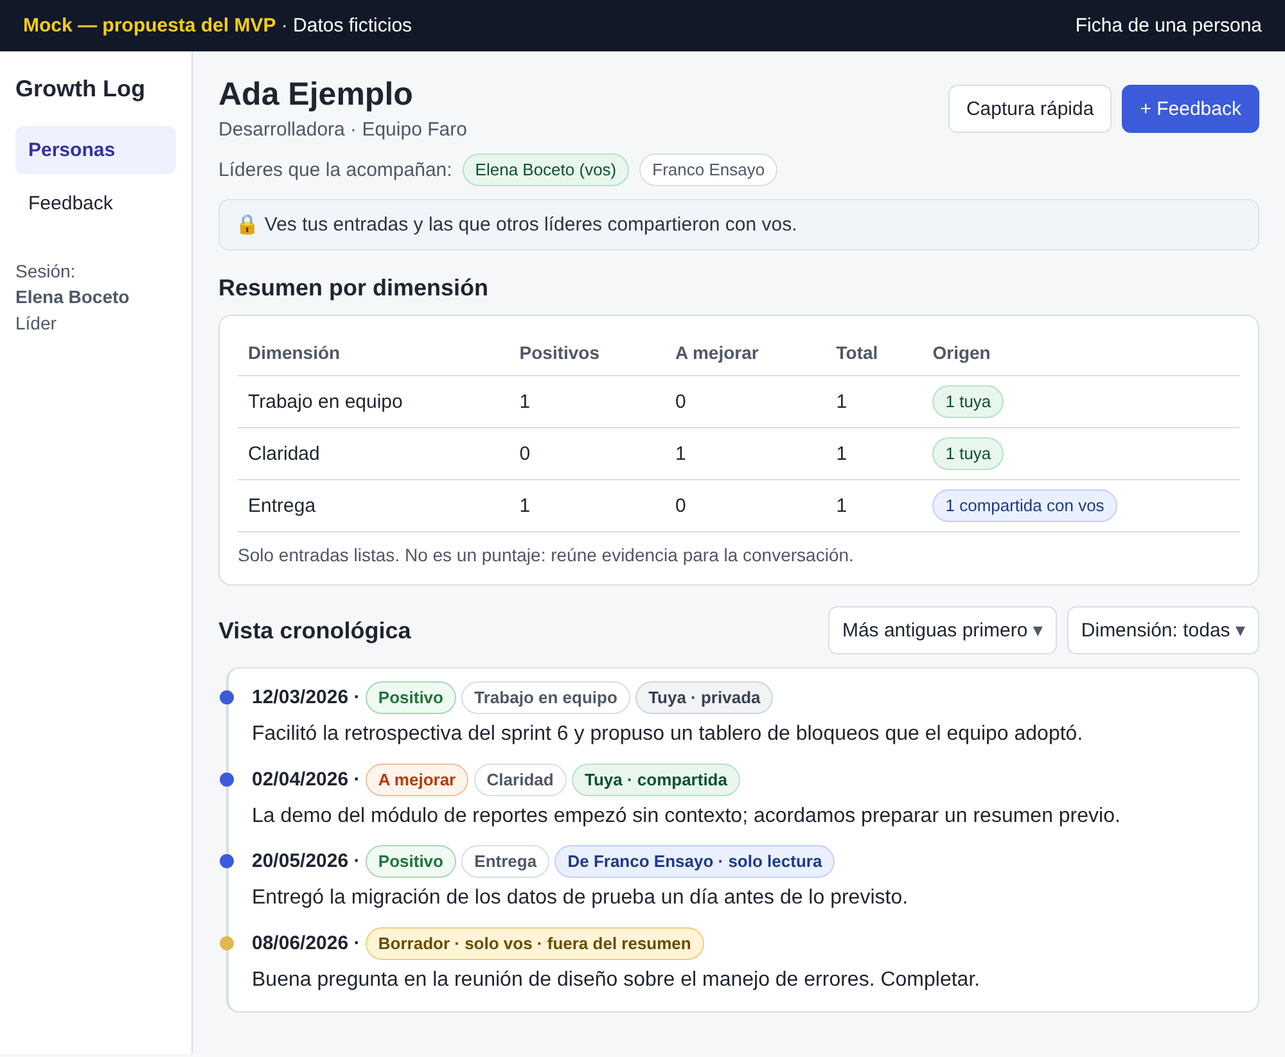
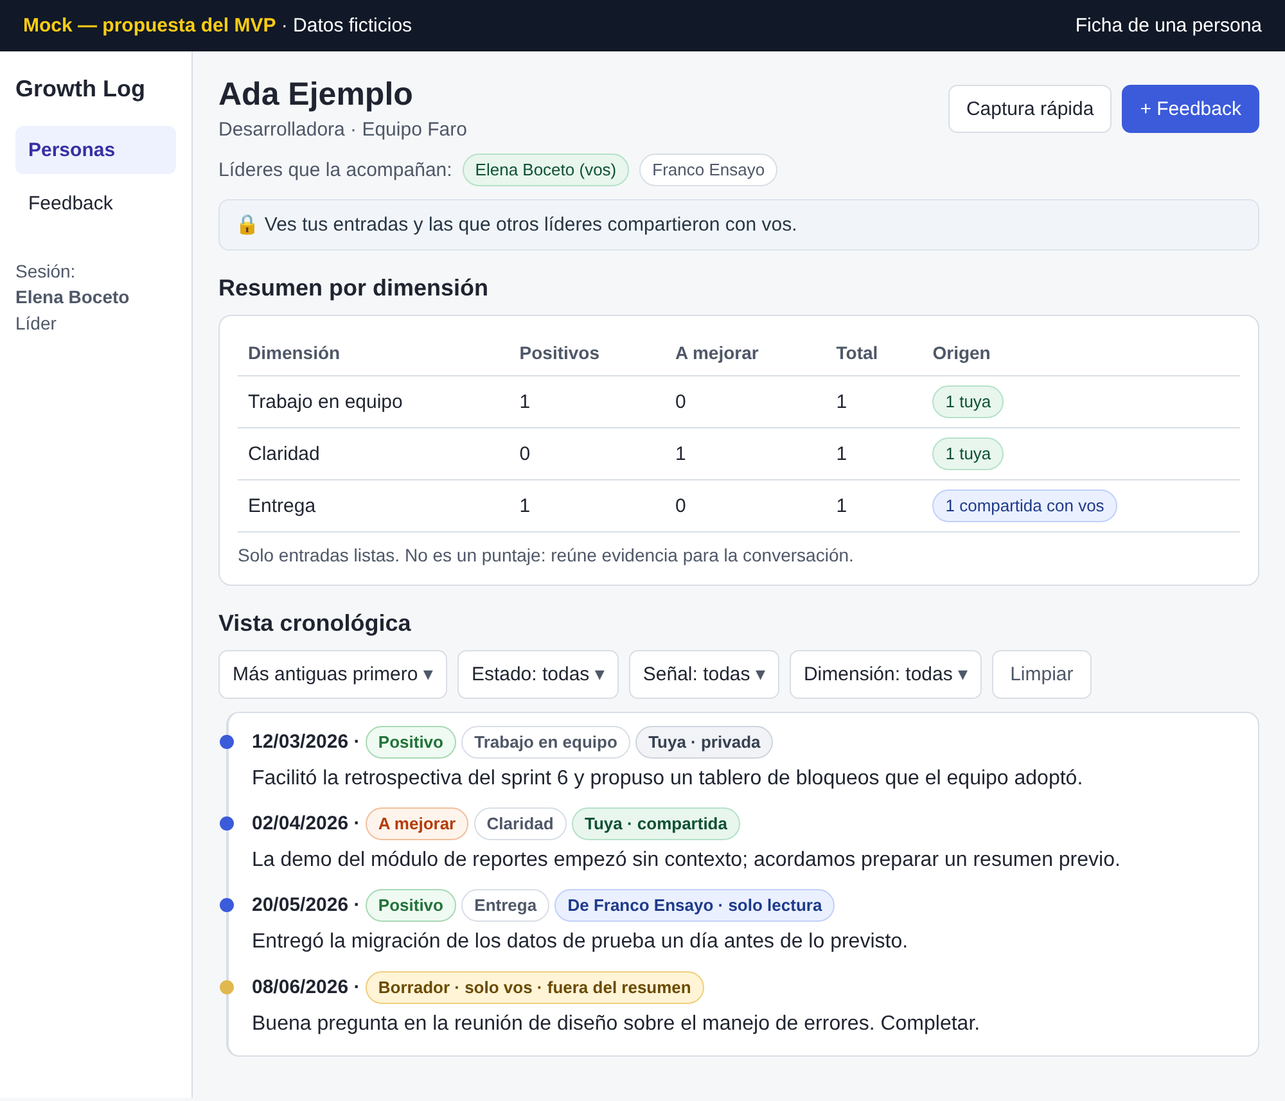
Entrega 1: precisiones técnicas, decisiones y registro de IA
- Arquitectura: separar el frontend agrega un contrato de API, sin
  duplicar permisos; un monolito admite varias instancias y una es la
  propuesta inicial. Diagrama sin nodos desconectados; integraciones
  opcionales descritas en texto.
- Despliegue: el proceso de CI y entrega y la infraestructura de
  ejecución en dos diagramas separados.
- Modelo de datos: etiquetas legibles de izquierda a derecha.
- Tickets: MVP-FE-1 depende también de MVP-BE-1; la reversión de
  migraciones se comprueba en una base descartable.
- Historias y mocks: terminología unificada («Captura rápida»,
  «Feedback»), filtros del mock 1 alineados con 4.6 y 4.7, y filtros de
  origen y persona del feed marcados como propuestas por confirmar.
- Plan: H1 como base antes de H2 y H3.
- Decisiones: alternativas mínimas recomendadas para D1, D2 y D5, sin
  darlas por aceptadas.
- prompts.md: contexto avanzado y herramientas usados realmente.

diff --git a/README.md b/README.md
@@ -153,8 +153,9 @@ de la persona acompañada (D4) y los enlaces de evidencia externos.
 ### 1.3. Diseño y experiencia de usuario
 
 **Propuesto:** una navegación con «Personas» y «Feedback». La ficha de cada
-persona concentra el resumen por dimensión, el acceso a la captura rápida y
-la lista de entradas visibles. Cada entrada muestra si es propia o
+persona concentra el resumen por dimensión, el acceso a la «Captura rápida»
+y la lista de entradas visibles. La sección «Feedback» es el feed con las
+entradas que el líder puede ver. Cada entrada muestra si es propia o
 compartida. Los textos dicen «Marcar como lista» y «Compartir», nunca
 «Publicar», para no confundir marcar como lista con compartir.
 
@@ -173,7 +174,8 @@ criterios y las decisiones pendientes está en el
 ![Mock 1: ficha de una persona con resumen y vista cronológica](anexos/mocks/mock-1-ficha-persona.png)
 
 Resumen por dimensión que distingue entradas propias y compartidas, y vista
-cronológica por fecha del hecho (4.13). La lista de líderes muestra una
+cronológica por fecha del hecho (4.13), con filtros por estado, señal y
+dimensión (4.6). La lista de líderes muestra una
 alternativa de asignación, pendiente de D1. El resumen no es un puntaje.
 
 **2. Captura rápida de feedback (H3)**
@@ -198,9 +200,11 @@ dependen de D2; la pantalla muestra una alternativa.
 ![Mock 4: feed con filtros](anexos/mocks/mock-4-feed.png)
 
 Solo entradas propias y listas compartidas con el líder (PP-6, propuesta),
-con filtros por estado, señal, dimensión y origen, y paginación. Las
-etiquetas de origen distinguen «Tuya · privada», «Tuya · compartida» y
-«Compartida con vos»; la leyenda debajo de la tabla las explica.
+con filtros por estado, señal y dimensión (5.2) y paginación. Las etiquetas
+de origen distinguen «Tuya · privada», «Tuya · compartida» y «Compartida con
+vos»; la leyenda debajo de la tabla las explica. Los filtros de **origen y
+persona** que muestra el mock son **propuestas por confirmar**: no forman
+parte de los criterios actuales.
 
 ### 1.4. Instrucciones de instalación
 
@@ -223,19 +227,14 @@ flowchart TB
   subgraph NAV["Navegador"]
     UI["Interfaz HTML<br/>vistas del servidor + Turbo + Stimulus"]
   end
-  subgraph APP["Monolito Rails (PROPUESTO)"]
+  subgraph APP["Rails propuesto"]
     RT["Rutas y controladores<br/>Personas · Entradas · Compartir · Resumen"]
     AUTH["Autenticación<br/>cuentas individuales"]
     POL["Autorización en el servidor<br/>reglas PP-1 a PP-7, denegar por defecto"]
     SCOPE["Consultas con alcance<br/>solo lo visible para el líder"]
     DOM["Dominio: personas y feedback<br/>estados, validaciones, acompañamientos,<br/>comparticiones"]
-    OUT["Salida a servicios externos<br/>punto de integración por decidir"]
   end
   DB[("PostgreSQL<br/>usuarios, personas, acompañamientos,<br/>entradas, comparticiones")]
-  subgraph EXT["Opcionales (ADR-8)"]
-    MAIL["Correo transaccional<br/>recuperar contraseña"]
-    ERR["Seguimiento de errores<br/>sin contenido de feedback"]
-  end
   UI -- "HTTPS (requisito)" --> RT
   RT --> AUTH
   AUTH --> POL
@@ -244,15 +243,12 @@ flowchart TB
   SCOPE --> DB
   DOM --> DB
   RT -- "HTML y Turbo Streams" --> UI
-  OUT -. "correo, si se incluye" .-> MAIL
-  OUT -. "errores sin feedback, si se incluye" .-> ERR
-  style OUT stroke-dasharray: 5 5
-  style EXT stroke-dasharray: 5 5
 ```
 
-Lo punteado es opcional y está por decidir: el correo y el seguimiento de
-errores son servicios externos propuestos (ADR-8), y qué componente se
-conecta con ellos todavía no está definido.
+**Integraciones opcionales, todavía sin dibujar:** un servicio de correo
+transaccional para recuperar contraseñas y uno de seguimiento de errores, sin
+contenido de feedback (ADR-8). Se agregarán al diagrama cuando se decida si
+se incluyen y qué componente se conecta con ellos.
 
 **Por qué un monolito encaja (propuesto).**
 
@@ -260,12 +256,15 @@ conecta con ellos todavía no está definido.
   servicio es más simple de construir, probar y desplegar.
 - La regla central, quién puede ver qué entrada, vive en un único lugar y se
   aplica igual a vistas, feed y resumen.
-- Las vistas renderizadas en el servidor no exponen datos a un cliente que
-  luego haya que filtrar.
+- Con vistas renderizadas en el servidor no hace falta mantener un contrato
+  de API ni coordinar dos aplicaciones.
 
 **Qué se sacrifica:** no hay una API para otros clientes (por ejemplo, una
-app móvil para la captura rápida), y la escala queda limitada a un servicio.
-Ninguna de las dos cosas hace falta para el MVP.
+app móvil para la captura rápida), algo que el MVP no necesita.
+
+**Escala:** un monolito puede ejecutarse en varias instancias. La propuesta
+inicial es **una sola instancia**, por simplicidad y por el volumen esperado;
+no es una limitación del patrón.
 
 **Responsabilidades:**
 
@@ -294,7 +293,7 @@ ellas, con una única versión de Ruby declarada en todo el repositorio.
 | Elección | Por qué encaja | Alternativa razonable | Qué falta decidir o comprobar |
 |---|---|---|---|
 | **Ruby y Rails** | monolito con convenciones maduras para formularios, sesiones, validaciones y tests; conocido por Pablo | Django; Laravel; Node con un framework full-stack | la versión con soporte vigente y una única versión de Ruby declarada en todo el repositorio |
-| **ERB y Hotwire** (Turbo y Stimulus) | HTML del servidor, con filtros y formularios sin recargar y poco JavaScript | React o Vue con una API JSON, que obliga a duplicar la autorización en una API | si la captura rápida en el teléfono es suficiente como web adaptable (HV-1) |
+| **ERB y Hotwire** (Turbo y Stimulus) | HTML del servidor, con filtros y formularios sin recargar y poco JavaScript | React o Vue con una API JSON: los permisos se siguen aplicando en el servidor, pero separar el frontend agrega un contrato de API y coordinación entre dos aplicaciones | si la captura rápida en el teléfono es suficiente como web adaptable (HV-1) |
 | **PostgreSQL** | restricciones de integridad, índices parciales para comparticiones activas y Row Level Security disponible si se decide | SQLite, más simple pero con menos opciones de concurrencia y de backup gestionado | si se usa RLS (ADR-5); proveedor gestionado con backups (ADR-7) |
 | **Autenticación: Devise** | completa: sesión, recordarme, recuperación, bloqueo por intentos | el generador de autenticación que trae Rails, más simple y con menos funciones; inicio de sesión con un proveedor externo (OAuth) | ADR-2: qué funciones hacen falta (bloqueo por intentos, recuperación) y quién crea las cuentas (D1) |
 | **Autorización: políticas en el servidor** | reglas explícitas y testeables por acción | una biblioteca de políticas (por ejemplo, Pundit o Action Policy) u objetos de política propios | ADR-3: la biblioteca y si un acceso no autorizado responde 404 o 403 |
@@ -316,13 +315,23 @@ el proyecto.
 
 **Propuesto.** Nada de esto existe todavía.
 
+**Proceso de CI y entrega:**
+
 ```mermaid
 flowchart LR
-  BR["Rama de trabajo"] -- "pull request" --> CI["CI: estilo, seguridad,<br/>tests unitarios, de integración y E2E"]
+  BR["Rama de trabajo"] -- "pull request" --> CI["CI<br/>estilo, seguridad y tests"]
   CI -- "en verde" --> MAIN["main"]
-  MAIN -- "solo si el CI pasó" --> DEP["Despliegue<br/>destino por decidir (ADR-7)"]
-  DEP --> RUN["Aplicación Rails"]
-  RUN --> PG[("PostgreSQL gestionado<br/>backups: requisito")]
+  MAIN -- "solo si el CI pasó" --> DEP["Despliegue"]
+```
+
+**Infraestructura donde corre el producto:**
+
+```mermaid
+flowchart LR
+  U["Navegador"] -- "HTTPS" --> APP
+  subgraph HOST["Hosting por decidir (ADR-7)"]
+    APP["Aplicación Rails<br/>una instancia inicial"] --> PG[("PostgreSQL gestionado<br/>backups: requisito")]
+  end
 ```
 
 Requisitos de operación: HTTPS forzado en todos los entornos públicos,
@@ -371,12 +380,12 @@ por destinatario (`ENTRY_SHARE`, sujeta a D2).
 
 ```mermaid
 erDiagram
-  ASSIGNMENT }o--|| PERSON : "es acompañada"
-  ASSIGNMENT }o--|| USER : "acompaña"
+  ASSIGNMENT }o--|| PERSON : "vincula a la persona"
+  ASSIGNMENT }o--|| USER : "vincula al líder"
   PERSON ||--o{ FEEDBACK_ENTRY : "recibe"
-  USER ||--o{ FEEDBACK_ENTRY : "es autor"
-  FEEDBACK_ENTRY ||--o{ ENTRY_SHARE : "se comparte (alternativa, D2)"
-  USER ||--o{ ENTRY_SHARE : "puede leer (alternativa, D2)"
+  USER ||--o{ FEEDBACK_ENTRY : "escribe"
+  FEEDBACK_ENTRY ||--o{ ENTRY_SHARE : "se comparte con (alternativa, D2)"
+  USER ||--o{ ENTRY_SHARE : "es destinatario de (alternativa, D2)"
   USER {
     identifier id PK
     string email UK "not null"
@@ -606,7 +615,7 @@ detectar patrones y coordinarme con otros líderes.
 |---|---|---|---|---|---|
 | H1 | personas, autorización, consultas con alcance | `PERSON`, `ASSIGNMENT` | PP-2; D1 | un líder no asignado no ve ni abre la persona | MVP-DB-1 |
 | H2 | entradas, autorización, dominio | `FEEDBACK_ENTRY` | PP-2 a PP-4 | validaciones; crear sobre una persona no acompañada es rechazado | MVP-DB-1, MVP-BE-1 |
-| H3 | interfaz, entradas, dominio | `FEEDBACK_ENTRY.status` | PP-3; 3.9 | recorrido E2E de captura rápida a lista; lista exige dimensión | MVP-FE-1 |
+| H3 | interfaz, entradas, dominio | `FEEDBACK_ENTRY.status` | PP-3; 3.9 | recorrido E2E de captura rápida a lista; lista exige dimensión | MVP-FE-1, MVP-BE-1 |
 | H4 | resumen, consultas con alcance | `FEEDBACK_ENTRY` (`occurred_on`), compartición, `ASSIGNMENT` | PP-5, PP-6; 4.11 a 4.13 | dos líderes ven resúmenes distintos; la vista cronológica solo incluye entradas visibles | MVP-BE-1 |
 | H5 | feed, compartir, autorización | `ENTRY_SHARE` | PP-4 a PP-6; D2, D3 | compartir un borrador es rechazado; el destinatario lee y no edita | MVP-BE-1, MVP-DB-1 |
 
@@ -642,7 +651,9 @@ dependen de decisiones todavía abiertas.
     fuera de `draft` y `ready`;
   - no se pueden duplicar un acompañamiento activo ni una compartición
     activa;
-  - las migraciones se revierten en desarrollo sin pérdida;
+  - la reversión de cada migración se comprueba en una base descartable;
+    revertir una migración que elimina tablas o columnas borra sus datos, así
+    que nunca se revierte sobre datos reales sin un backup;
   - los tests de modelo pasan en el CI.
 - **Fuera de alcance:** hacer cumplir las reglas en controladores y vistas
   (MVP-BE-1).
@@ -678,7 +689,9 @@ dependen de decisiones todavía abiertas.
 ### MVP-FE-1. Captura rápida accesible desde la ficha (frontend)
 
 - **Historia:** H3. **Hipótesis relacionada:** HV-1.
-- **Depende de:** MVP-DB-1.
+- **Depende de:** MVP-DB-1, para guardar el borrador, y MVP-BE-1, para que
+  sea privado de su autor. La interfaz puede maquetarse antes, pero la
+  integración funcional requiere los dos.
 - **Contexto:** la captura rápida solo sirve si está a la vista desde la
   ficha; sin un acceso visible, no se usa.
 - **Pasos:**
@@ -725,7 +738,7 @@ matriz completa está en el
 | 4 | Optimización de la base | índices para las consultas de visibilidad; paginación | medir con datos de prueba |
 | 5 | Disponibilidad | chequeo de salud | según el hosting (ADR-7) |
 | 6 | CI/CD | CI en cada PR; despliegue solo en verde | destino de despliegue (ADR-7) |
-| 7 | Balanceo y escalado | una instancia alcanza | — |
+| 7 | Balanceo y escalado | una instancia como propuesta inicial; el monolito admite varias | cuándo hacen falta más instancias |
 | 8 | Errores y monitoreo | seguimiento de errores sin contenido de feedback | herramienta (ADR-8) |
 | 9 | Seguridad y RLS | autorización en el servidor, denegar por defecto | RLS como segunda defensa (ADR-5) |
 | 10 | Autenticación y permisos | cuentas individuales y política PP | autenticación (ADR-2); quién crea las cuentas (D1) |
@@ -746,6 +759,15 @@ Ningún requisito está implementado todavía.
 | D3 | **Escalar:** si hace falta algo más que compartir, por ejemplo escalar un caso. | H5 |
 | D4 | **Acceso de la persona acompañada** a su propio feedback. | ninguno del MVP |
 | D5 | **Salida de un autor:** cómo se conservan o transfieren sus entradas (PP-7). | MVP-DB-1 |
+
+**Alternativas mínimas para D1, D2 y D5.** Son **recomendaciones para que
+Pablo decida**, no decisiones tomadas.
+
+| # | Pregunta para Pablo | Alternativa mínima recomendada | Consecuencias en historias, permisos y modelo |
+|---|---|---|---|
+| D1 | ¿Quién crea las cuentas, asigna líderes a personas y edita los datos de una persona? | Un administrador (puede ser Pablo) crea cuentas, personas y asignaciones. Los líderes no se asignan solos. | **Historias:** H1 separa administrar (alta y asignación) de usar (ver las personas asignadas); resuelve 1.6 y 1.12. **Permisos:** un rol de administrador además de líder. **Modelo:** un rol en `USER` y `ASSIGNMENT` con `ended_at`. |
+| D2 | ¿Con quién se puede compartir una entrada y cómo se revoca? | Solo con líderes que acompañan a la misma persona, de a uno. Revocar marca la compartición con `revoked_at` y quita la lectura de inmediato. | **Historias:** permite especificar 5.6 y 5.7; el mock 3 ya muestra esta alternativa. **Permisos:** se lee si se es autor o hay una compartición activa con un líder asignado; si termina la asignación, se pierde la lectura. **Modelo:** `ENTRY_SHARE` por destinatario, con `revoked_at`. |
+| D5 | ¿Qué pasa con las entradas de un líder que deja el equipo? | Desactivar su cuenta en lugar de borrarla. Sus entradas se conservan y quienes ya las tenían compartidas las siguen leyendo; sin transferencia en el MVP. | **Historias:** no agrega historias; define PP-7. **Permisos:** un usuario desactivado no inicia sesión, y sus entradas no compartidas quedan sin lector (consecuencia a aceptar). **Modelo:** `USER.deactivated_at`; no se borran usuarios con entradas. |
 
 ### 9.2. Decisiones de arquitectura y de producto
 
@@ -790,7 +812,7 @@ fase tiene una verificación humana o automática.
 | 1. Decisiones | resolver D1, D2, D5 y los ADR abiertos | comparar opciones con sus consecuencias | Pablo decide y se registra en un ADR |
 | 2. Especificación ejecutable | criterios de aceptación → tests que fallan | proponer tests desde los criterios | Pablo revisa que cada test refleje su criterio |
 | 3. Modelo y autorización | MVP-DB-1 y MVP-BE-1 primero | implementar hasta pasar los tests | CI en verde; test de cobertura de la política |
-| 4. Historias | H2 y H3, luego H4, H5 y H1 | implementar e iterar | tests de cada criterio y el E2E |
+| 4. Historias | H1 (ficha y asignaciones válidas) como base; luego H2 y H3; después H4 y H5 | implementar e iterar | tests de cada criterio y el E2E |
 | 5. Operación | CI como condición, despliegue y backups | configurar el pipeline | una restauración de backup probada |
 | 6. Validación | pruebas de uso y piloto | preparar guiones y resumir resultados | HV-1 a HV-4 contrastadas con usuarios |
 

diff --git a/anexos/anexo-a-historias.md b/anexos/anexo-a-historias.md
@@ -48,7 +48,7 @@ cuando deja el equipo.
 |---|---|
 | 1.1 | **Dado** que inicié sesión, **cuando** entro en Personas, **entonces** veo las personas activas ordenadas por nombre, con su rol y su equipo. |
 | 1.2 | **Entonces** solo veo las personas que estoy autorizado a acompañar. *(PP-2)* |
-| 1.3 | **Entonces** el conteo de feedbacks de cada persona incluye solo las entradas que puedo ver. *(PP-6)* |
+| 1.3 | **Entonces** el conteo de entradas de cada persona incluye solo las que puedo ver. *(PP-6)* |
 | 1.4 | **Dado** que no hay personas, **cuando** entro en Personas, **entonces** veo un mensaje y un enlace para crear la primera. |
 | 1.5 | **Cuando** creo una persona sin nombre, **entonces** no se guarda y veo el error. |
 | 1.6 | **Cuando** edito el nombre, el rol o el equipo, **entonces** se guardan los cambios. *(D1)* |
@@ -101,9 +101,9 @@ como lista. Sigue siendo privado hasta que lo comparta (PP-3, PP-4).
 
 | # | Criterio de aceptación (propuesto) |
 |---|---|
-| 3.1 | **Cuando** estoy en la ficha de una persona, **entonces** tengo un acceso visible a «Nota rápida». |
-| 3.2 | **Cuando** guardo una nota rápida, **entonces** se guarda como borrador privado de mi autoría, con la fecha de hoy, pidiendo solo el texto. *(PP-3)* |
-| 3.3 | **Dado** un borrador, **entonces** no cuenta en el resumen de la persona ni en su conteo de feedbacks. |
+| 3.1 | **Cuando** estoy en la ficha de una persona, **entonces** tengo un acceso visible a «Captura rápida». |
+| 3.2 | **Cuando** guardo una captura rápida, **entonces** se guarda como borrador privado de mi autoría, con la fecha de hoy, pidiendo solo el texto. *(PP-3)* |
+| 3.3 | **Dado** un borrador, **entonces** no cuenta en el resumen de la persona ni en su conteo de entradas. |
 | 3.4 | **Cuando** edito mi borrador, **entonces** puedo completar la señal, la dimensión y lo demás. |
 | 3.5 | **Cuando** marco como lista un borrador incompleto, **entonces** veo qué falta y el borrador sigue como estaba. |
 | 3.6 | **Cuando** marco como lista un borrador completo, **entonces** pasa a lista **y sigue privada**. *(PP-4)* |
@@ -157,7 +157,7 @@ borradores, tampoco los propios.
 y compartir el mío cuando lo decida, para detectar patrones y coordinarme con
 otros líderes.
 
-**Recorrido.** Entro en «Feedbacks», veo mis entradas y las compartidas
+**Recorrido.** Entro en «Feedback», veo mis entradas y las compartidas
 conmigo, filtro, paso a la persona o al detalle, y comparto una entrada lista.
 
 **Qué entradas entran en el feed (política propuesta, PP-6):** mis entradas
@@ -165,7 +165,7 @@ conmigo, filtro, paso a la persona o al detalle, y comparto una entrada lista.
 
 | # | Criterio de aceptación (propuesto) |
 |---|---|
-| 5.1 | **Cuando** entro en Feedbacks, **entonces** veo las entradas, primero las más recientes, solo las listas por defecto. |
+| 5.1 | **Cuando** entro en «Feedback», **entonces** veo las entradas, primero las más recientes, solo las listas por defecto. |
 | 5.2 | **Cuando** filtro por estado, señal o dimensión, **entonces** la lista se actualiza, y puedo limpiar los filtros. |
 | 5.3 | **Cuando** elijo una entrada, **entonces** puedo ir a la persona o al detalle. |
 | 5.4 | **Entonces** el feed muestra solo mis entradas y las listas compartidas conmigo. *(PP-6)* |

diff --git a/prompts.md b/prompts.md
@@ -19,6 +19,22 @@ evidencia:
 | Preparación de los pedidos | con ayuda de **ChatGPT** | solo lo declarado por Pablo el 27/10/2026. No se conservan esas conversaciones, no consta el modelo y no se puede distinguir qué parte de cada texto aportó ChatGPT |
 | Ejecución | **Claude Code (CLI)** con **Claude Opus 5.5** (`claude-opus-5-5`) | comprobado en la transcripción local de la sesión del 27/10/2026 (no se comparte): texto literal, herramienta y modelo de cada flujo |
 
+## Contexto avanzado y herramientas utilizadas
+
+Lo que se usó realmente en la preparación de esta entrega, según la
+transcripción de la sesión y los archivos de configuración:
+
+| Elemento | ¿Se usó? | Evidencia |
+|---|---|---|
+| Skills | **no** | ninguna invocación en la transcripción |
+| Subagentes | **sí, uno**: `web-fetch`, para leer la publicación de LinkedIn que inspira la matriz de confiabilidad (27/10/2026) | transcripción |
+| `CLAUDE.md` del proyecto o del usuario | **no** | no existe en las carpetas de trabajo ni en la configuración del usuario |
+| Rules | **no** | no hay archivos de reglas |
+| Memoria persistente | **no** | el directorio de memoria del proyecto está vacío |
+| Servidores MCP | **no** | ninguna llamada a herramientas MCP |
+| Instrucciones de la cuenta | **sí** | el entorno tenía instrucciones generales configuradas en la cuenta, no específicas de este proyecto, sobre cómo organizar y delegar el trabajo. No se publican. |
+| Herramientas del asistente | **sí** | terminal, lectura y edición de archivos y una pregunta al usuario. Con ellas: scripts de Python para generar y verificar la documentación, Chrome sin interfaz para renderizar los diagramas y los mocks, y `gh` en modo lectura para obtener la plantilla del curso. |
+
 ## Qué se publica
 
 Este registro publica **tres flujos** de la preparación de la entrega. Otros

diff --git a/anexos/anexo-e-mocks.md b/anexos/anexo-e-mocks.md
@@ -28,6 +28,7 @@ PP-7) y a las decisiones (D1 a D5) están en este anexo, no en la interfaz.
 | Resumen por dimensión con entradas listas visibles, distinguiendo las propias de las compartidas | 4.1–4.3; PP-6 | — |
 | Las entradas privadas de otro líder sobre la misma persona no se muestran ni se cuentan; dos líderes pueden ver resúmenes distintos | 4.11, 4.12 | — |
 | Vista cronológica por fecha del hecho, solo con entradas visibles | 4.13 | — |
+| Filtros por estado, señal y dimensión, con «Limpiar» | 4.6, 4.7 | — |
 | Un borrador propio aparece en la línea de tiempo, pero no en el resumen | 3.3; PP-3 | — |
 | El resumen aclara que no es un puntaje; la calibración es un uso posible y la aplicación no calcula la evaluación | 4.5 | — |
 
@@ -67,7 +68,8 @@ Registrar cada compartición por destinatario es una alternativa sujeta a D2
 | Qué muestra | Criterios y reglas | Decisiones pendientes |
 |---|---|---|
 | Más recientes primero; por defecto, solo listas | 5.1 | — |
-| Filtros por estado, señal y dimensión, con «Limpiar filtros»; el filtro de origen distingue lo propio de lo compartido | 5.2, 4.3 | — |
+| Filtros por estado, señal y dimensión, con «Limpiar» | 5.2 | — |
+| Filtros por **origen** y **persona** | — | **Propuesta por confirmar**: no forman parte de los criterios; si se aceptan, se suman a 5.2 |
 | Solo entradas propias y listas compartidas con el líder; los borradores ajenos nunca aparecen | 5.4, 5.5; PP-3, PP-6 | — |
 | Etiquetas de origen con leyenda: «Tuya · privada» (solo la ve su autora), «Tuya · compartida» (la autora la compartió) y «Compartida con vos» (solo lectura) | 4.3, 4.10 | — |
 | Cada fila lleva a la persona o al detalle | 5.3 | — |

diff --git a/anexos/anexo-b-matriz-confiabilidad.md b/anexos/anexo-b-matriz-confiabilidad.md
@@ -24,7 +24,7 @@ que falta decidir o validar para cumplirlos.
 | 4 | Optimización de la base | Índices para las consultas de visibilidad (autor, persona, destinatario); listados sin consultas repetidas; paginación del feed. | medir con datos de prueba |
 | 5 | Disponibilidad | Chequeo de salud; un arranque en frío aceptable o una instancia siempre encendida. | según el hosting; ADR-7 |
 | 6 | CI/CD y control de versiones | CI en cada pull request (estilo, seguridad, tests) y **despliegue solo con el CI en verde**. | destino de despliegue; ADR-7 |
-| 7 | Balanceo y escalado | Una instancia alcanza para el MVP. | — |
+| 7 | Balanceo y escalado | Una instancia como propuesta inicial, por simplicidad y volumen esperado; el monolito puede ejecutarse en varias. | — |
 | 8 | Errores y monitoreo | Seguimiento de errores **sin contenido de feedback**; logs con el feedback filtrado. | herramienta y si es un servicio externo; ADR-8 |
 | 9 | Seguridad y Row Level Security | Autorización en el servidor, denegar por defecto, con tests de permitido y rechazado; CSP y HTTPS forzados. | si se suma RLS en PostgreSQL como segunda defensa; ADR-5 |
 | 10 | Autenticación y permisos | Cuentas individuales; política PP-1 a PP-7; política de contraseñas; seeds solo en desarrollo. | ADR-2; quién crea las cuentas (D1) |

diff --git a/anexos/anexo-d-decisiones-arquitectura.md b/anexos/anexo-d-decisiones-arquitectura.md
@@ -15,8 +15,11 @@ decida, se completa con la decisión, la fecha y sus consecuencias.
   visibilidad que tiene que aplicarse igual en todas las vistas.
 - **Opciones:** monolito con vistas del servidor; monolito con API JSON y un
   frontend separado; otro framework web con las mismas características.
-- **Criterio:** un único lugar para la autorización; simplicidad de prueba y
-  despliegue; experiencia previa de Pablo.
+- **Criterio:** en todas las opciones la autorización se aplica en el
+  servidor; el monolito evita mantener un contrato de API y coordinar dos
+  aplicaciones. También pesan la simplicidad de prueba y despliegue y la
+  experiencia previa de Pablo. Una instancia es la propuesta inicial; el
+  monolito puede ejecutarse en varias.
 - **Estado:** propuesta.
 
 ## ADR-2. Autenticación
